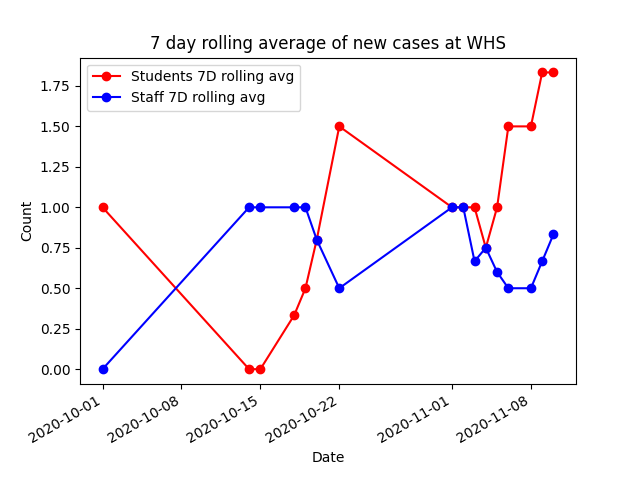
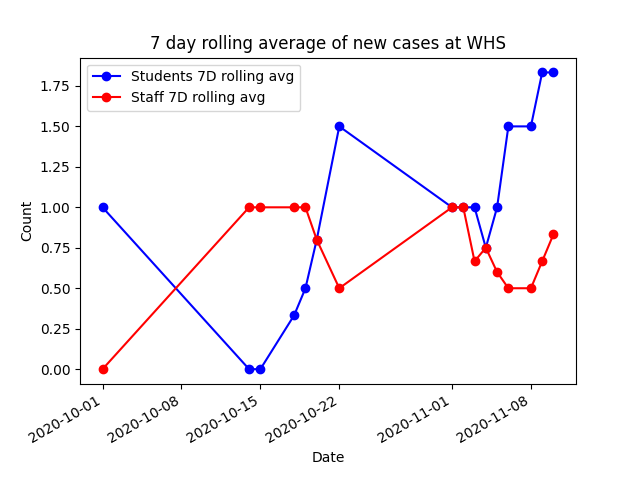
Made the colors consistent.

diff --git a/whs_7d.py b/whs_7d.py
@@ -23,10 +23,10 @@ print(df)
 
 fig = plt.figure()
 plt.plot_date(x=df.index, y=df['Students_7D'], fmt='bo-', tz=None, xdate=True,
-      ydate=False, label="Students 7D rolling avg", color='red')
+      ydate=False, label="Students 7D rolling avg", color='blue')
 
 plt.plot_date(x=df.index, y=df['Staff_7D'], fmt='ro-', tz=None, xdate=True,
-      ydate=False, label="Staff 7D rolling avg", color='blue')
+      ydate=False, label="Staff 7D rolling avg", color='red')
 
 fig.autofmt_xdate()
 plt.legend()
